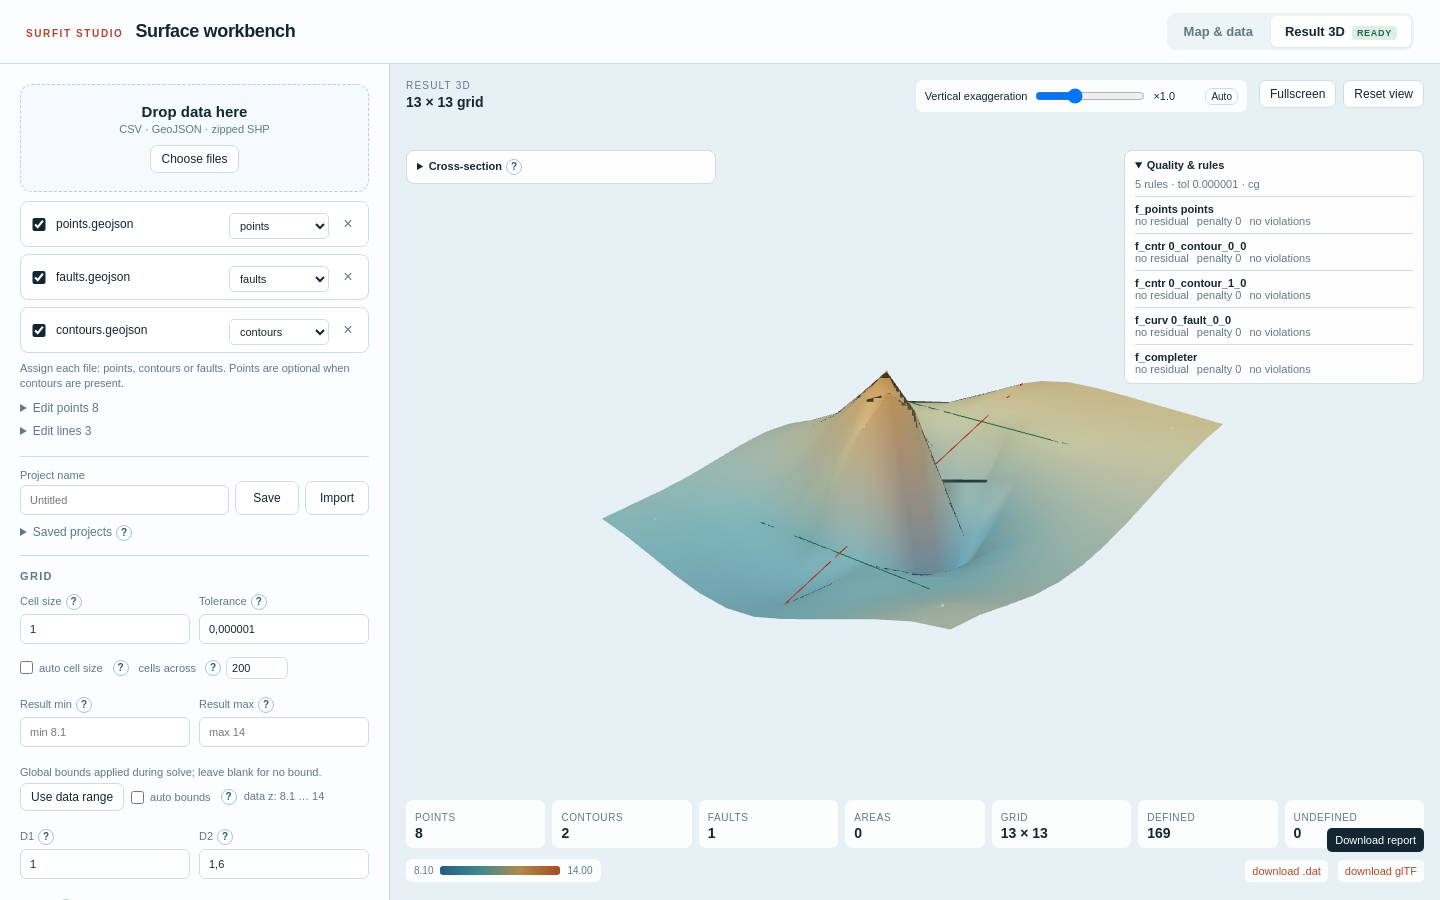
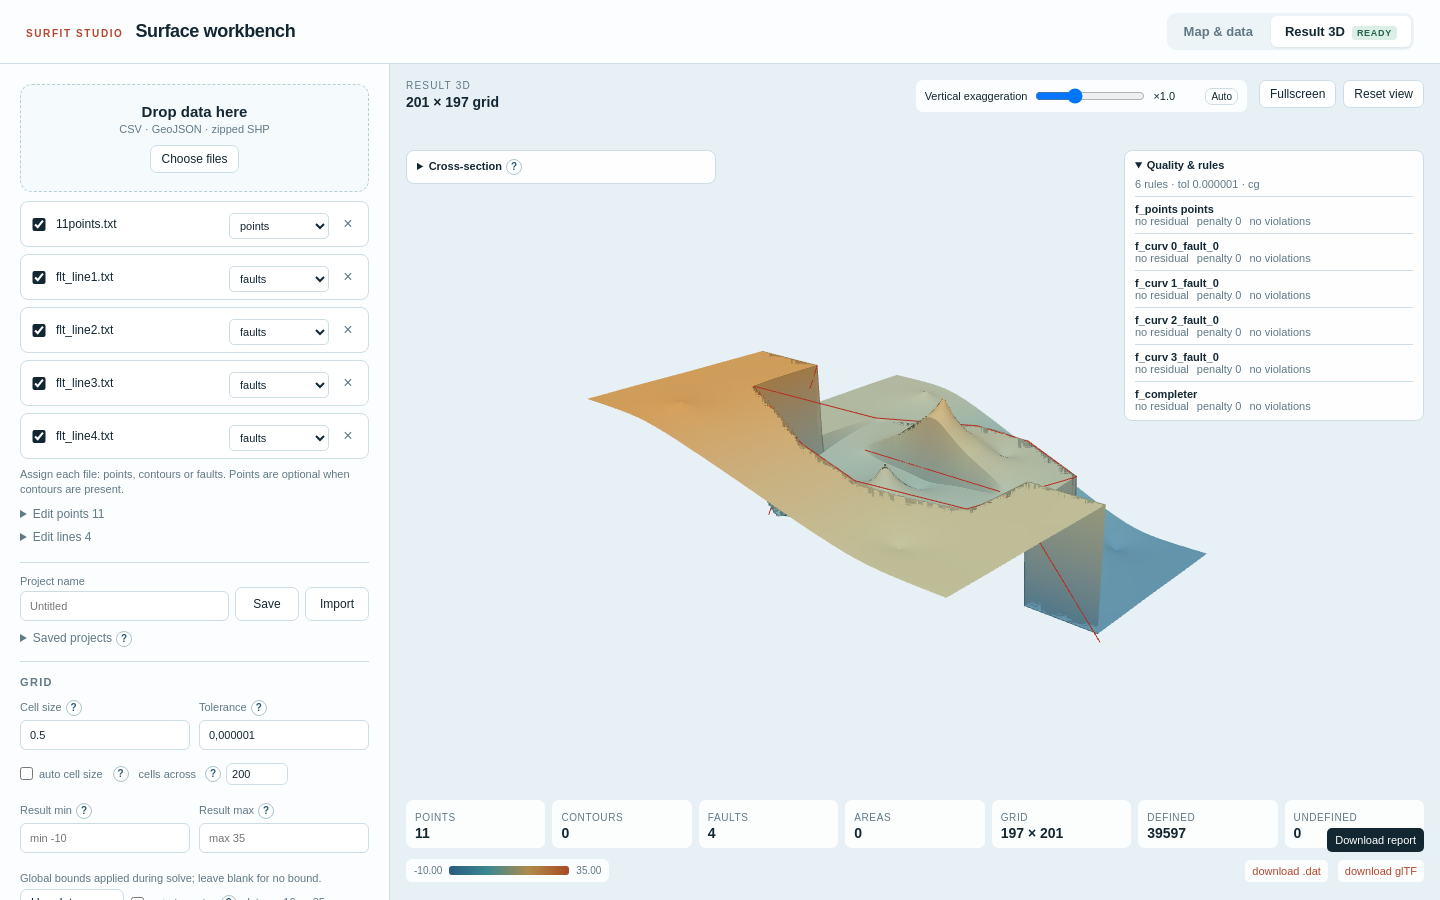
docs: pair the workbench screenshot with the hero scene

diff --git a/workbench/README.md b/workbench/README.md
@@ -20,7 +20,10 @@ The shortest path is:
 finds `../build-ci/bin` automatically.  Override with
 `SURFIT_BIN=/path/to/surfit/build-ci/bin ./run.sh` or `PORT=8080 ./run.sh`.
 
-![Workbench: source files, grid settings and the faulted 3D result](../docs/_static/workbench.png)
+![Workbench: the same eleven wells and four faults as the hero image](../docs/_static/workbench.png)
+
+*The hero scene inside the workbench: eleven wells, four faults, one regular
+grid, with the quality report visible.*
 
 Manual equivalent:
 

diff --git a/README.zh.md b/README.zh.md
@@ -48,7 +48,8 @@ Workbench 位于源码仓库的 `workbench/`，不是 wheel 的依赖。
 
 ![Workbench：源文件、网格设置和带断层的 3D 结果](docs/_static/workbench.png)
 
-*左侧是数据与规则；右侧是带断层的曲面、quality report 和网格指标。*
+*与主图相同的十一口井和四条断层，现在位于 workbench 中：左侧是数据与规则，
+右侧是带断层的曲面、quality report 和网格指标。*
 
 ### Python 与 JSON recipe — 面向智能体
 

diff --git a/README.md b/README.md
@@ -58,8 +58,9 @@ wheel dependency.
 
 ![Workbench: source files, grid settings and the faulted 3D result](docs/_static/workbench.png)
 
-*Sources and rules on the left; the faulted surface, quality report and grid
-metrics on the right.*
+*The same eleven wells and four faults as the hero image, now inside the
+workbench: sources and rules on the left; the faulted surface, quality report
+and grid metrics on the right.*
 
 ### Python and JSON recipes — for agents
 
